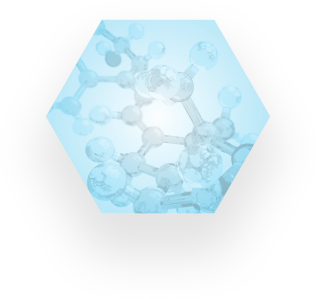
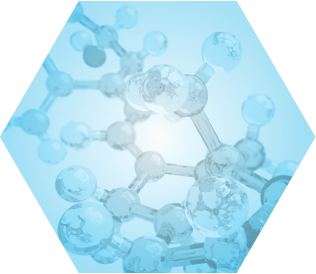
fix

diff --git a/index.html b/index.html
@@ -60,26 +60,27 @@
     }
     #scene > .right-ball {
       width: 180px;
-      height: 180px;
+      height: 157px;
       /* background-color: blue; */
-      background-image: url('./images/one/six2.png');
-      background-size: 100% auto;
-      background-repeat: no-repeat;
-      position: absolute !important;
-      top: calc(100% - 150px) !important;
-      left: calc(100% - 120px) !important;
-    }
-
-    #scene > .mid-ball {
-      width: 100px;
-      height: 100px;
-      /* background-color: yellowgreen; */
       background-image: url('./images/one/six1.png');
       background-size: 100% auto;
       background-repeat: no-repeat;
       position: absolute !important;
-      top: calc(100% - 100px) !important;
-      left: calc(100% - 180px) !important;
+      top: calc(100% - 170px) !important;
+      left: calc(100% - 120px) !important;
+      animation: change 10s linear infinite;
+    }
+
+    #scene > .mid-ball {
+      width: 100px;
+      height: 90px;
+      /* background-color: yellowgreen; */
+      background-image: url('./images/one/six3.png');
+      background-size: 100% auto;
+      background-repeat: no-repeat;
+      position: absolute !important;
+      top: calc(100% - 90px) !important;
+      left: calc(100% - 210px) !important;
       animation:change 4s linear infinite;
     }
 
